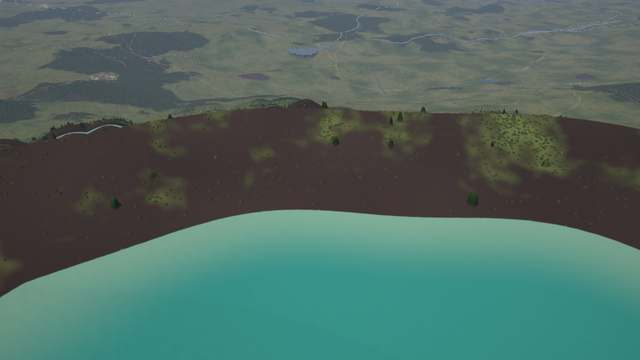
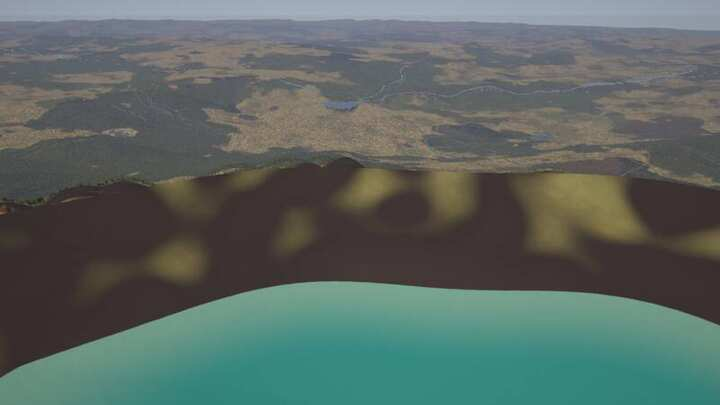
volcanic: no towns on cones (Stack::no_town), no tracks across kit lakes, crater lakes only inside the rim, calmer hydrothermal and cinder-apron looks, stills re-rendered with all kits

diff --git a/crates/terragen/src/kits/volcanic.rs b/crates/terragen/src/kits/volcanic.rs
@@ -600,7 +600,10 @@ fn volcano_look(s: &mut Stack, v: &Vol) {
     let p = s.ctx.p;
     let gsd = s.ctx.gsd;
     let Some(k) = cone(v, p, gsd, false) else { return };
-    // (no fields or towns in the crater)
+    // no fields in the crater, no towns on the cone (on the ash apron of an active one)
+    if k.u < 0.45 + 0.55 * v.act || k.rr < 1.6 * k.rce {
+        s.no_town = true;
+    }
     s.m.natural_ok *= smoothstep(1.0, 1.6, k.rr / k.rce);
     ash(s, v, &k);
     flows(s, v, &k);
@@ -691,19 +694,19 @@ fn hydrothermal(s: &mut Stack, v: &Vol, k: &Cone) {
     let strength = 0.35 + 0.65 * v.act;
     let n = nz(SEED_HYD ^ v.id, p, 38.0, gsd) + 0.5 * nz((SEED_HYD ^ v.id) + 1, p, 11.0, gsd);
     let wd = 0.06 + 0.25 * (1.0 - band(38.0, gsd));
-    let cov = smoothstep(-wd, wd, n - (1.1 - zone * strength));
+    let cov = smoothstep(-wd, wd, n - (1.3 - zone * strength));
     if cov <= 0.0 {
         return;
     }
     let pick = nz(SEED_HYD + 7, p, 90.0, gsd);
-    let col = mixc(mixc(srgb(204.0, 178.0, 62.0), srgb(176.0, 92.0, 48.0), smoothstep(-0.15, 0.2, pick)), srgb(214.0, 208.0, 194.0), smoothstep(0.1, 0.5, n));
+    let col = mixc(mixc(srgb(204.0, 178.0, 62.0), srgb(176.0, 92.0, 48.0), smoothstep(-0.15, 0.2, pick)), srgb(176.0, 158.0, 118.0), smoothstep(0.1, 0.5, n));
     s.composite(Layer { cov, albedo: col, cls: cls::BARE, clear: 1.0, ..Default::default() });
     s.m.natural_ok *= 1.0 - cov;
 }
 
 /// The crater or caldera lake: water at the instance's level where the ground is below it.
 fn crater_lake(s: &mut Stack, v: &Vol, k: &Cone) {
-    if v.lake < -1.0e5 || k.rr > 1.4 * v.rc.max(k.rce) {
+    if v.lake < -1.0e5 || k.rr > 1.02 * v.rc.max(k.rce) {
         return;
     }
     let l = s.l;
@@ -728,7 +731,7 @@ fn field_look(s: &mut Stack, it: &Instance) {
     // ash apron: a darkened ground, strongest at the field's heart
     if f.apron > 0.0 {
         let n = 0.5 + 0.5 * nz(SEED_ASH + 5, p, 120.0, gsd);
-        let cov = 0.62 * f.apron * (0.4 + 0.6 * n);
+        let cov = 0.5 * f.apron * smoothstep(0.2, 0.8, n);
         s.composite(Layer { cov, albedo: ash_col(n) * 0.9, cls: cls::VOLCANIC_ASH, clear: 0.8, ..Default::default() });
     }
     if f.lava > 0.0 {

diff --git a/crates/terragen/src/layers/built.rs b/crates/terragen/src/layers/built.rs
@@ -427,7 +427,11 @@ pub fn select_town(s: &mut crate::stack::Stack) {
     // towns avoid steep relief, judged from the relief type (smooth), not the slope of each
     // pixel (that cut houses in half along every terrace edge and gully wall)
     let town_slope = 0.12 + 0.75 * t.rock_expect;
-    let sel = if t.town.id != 0 && world.cfg.landuse.towns > 0.0 { s.sm.select_town(world, s.cache, p, gsd, town_slope, river_clear, s.pf, 2) } else { None };
+    let sel = if t.town.id != 0 && !s.no_town && world.cfg.landuse.towns > 0.0 {
+        s.sm.select_town(world, s.cache, p, gsd, town_slope, river_clear, s.pf, 2)
+    } else {
+        None
+    };
     let urban = sel.map_or(0.0, |x| x.1);
     let px = sel.and_then(|(town, _)| s.sm.town(&town, p, gsd, fw, town_slope, river_clear, world.cfg.satellite.shadows, s.pf));
     let cov = px.map_or(0.0, |x| x.2);

diff --git a/crates/terragen/src/stack.rs b/crates/terragen/src/stack.rs
@@ -213,6 +213,9 @@ pub struct Stack<'a> {
     /// a layer ended the stack: the rest is skipped (set by kits; water surfaces skip only the
     /// seasonal slot, while `is_water`)
     pub done: bool,
+    /// set by a kit before the towns are selected (slots 1–5): no town here (volcanic craters,
+    /// ash and lava)
+    pub no_town: bool,
     /// layers 6–7: evaluated before the canopy, composited after it
     deferring: bool,
     deferred: Deferred,
@@ -449,6 +452,7 @@ pub fn eval(sm: &SurfaceModel, world: &World, cache: &mut Caches, ctx: &Ctx, l: 
         emission: DVec3::ZERO,
         is_water: false,
         done: false,
+        no_town: false,
         deferring: false,
         deferred: Deferred::default(),
     };

diff --git a/crates/terragen/src/kits/agriculture.rs b/crates/terragen/src/kits/agriculture.rs
@@ -457,7 +457,8 @@ fn roads(s: &mut Stack) {
     let d = (q.x - ix * MILE).abs().min((q.y - iy * MILE).abs());
     let steep = smoothstep(-0.02, 0.02, 0.45 - s.l.slope);
     let cov = band_cov(d, 4.0, s.l.fw.max(0.5 * gsd)) * steep * (1.0 - s.m.snow);
-    if cov <= 0.0 {
+    // (no tracks across a kit's lakes: crater lakes, kettles)
+    if cov <= 0.0 || s.class == crate::landcover::LAKE {
         return;
     }
     // gravel farm tracks (roads proper are the transport kit's)

diff --git a/docs/kits/volcanic.md b/docs/kits/volcanic.md
@@ -32,7 +32,8 @@ old moss-green by age; no trees, no fields on them); hydrothermal sulphur, rust 
 at the crater; crater and caldera lakes at one flat water level of the instance; in fields the
 cinder cones (dark crater, pale rim), tephra rings and lakes of maars, an ash apron, short lava
 tongues. Snow caps come from the climate (lapse rate; the cold kit's snow model). No fields
-or towns in craters, on lava, ash or lakes (`Masks::natural_ok`).
+in craters, on lava, ash or lakes (`Masks::natural_ok`), and no town on a cone (`Stack::no_town`,
+set in slots 1-5: the town is not selected there; the active cone's ash apron counts).
 
 **Biomes** `volcanic_scrub` (warm and temperate volcanic country; black beaches) and
 `volcanic_barren` (cold and high), with old and fresh lava fans from the `lobes` kernel. Arid
@@ -68,24 +69,20 @@ default places (4 x 4 tiles):
 `InstList` zero-initialises 512 bytes per list: the first version of the layer cost 10-20 % at
 every place because of it).
 
-**Build note.** These numbers are of a build with only the cold and volcanic kits: with all
-kits on, pass B's pipeline takes ~370 s to compile on the farm's RTX 6000 Ada and the device is
-lost for any compile over ~400 s ("driver implementation is at fault"). Master with five kits is
-just under that; no kit can be added on top of it until the core compiles pass B faster.
+Cold compile (RTX 6000 Ada, all six kits): pass B 24 / 26 / 26 s (three pipelines), pass A1 17 s,
+point evaluation 19 s, drainage heights 15 s.
 
 ## Stills
 
-GPU-generated (`terrain survey`, default world, 10:30 local on the equinox, the cold and
-volcanic kits only, for the reason above). Rendered once more after the first fixes. Two fixes
-(short fat lava tongues on shields; no towns in craters, on ash or lava) and a speed-up (same
-look) came after the last render and were not re-rendered.
+GPU-generated (`terrain survey`, default world, 10:30 local on the equinox, all six kits). Oblique
+views stand off from the cone along the view direction.
 
-**Crater lake** (11.850, -106.320): oblique 300 m, nadir 1.5 km, oblique 1.5 km from 7 km.
+**Crater lake** (11.850, -106.320): oblique 300 m, nadir 1.5 km, oblique 1.5 km from 3 km.
 ![crater lake](images/volcanic_crater_lake_300m.jpg)
 ![crater lake, nadir](images/volcanic_crater_lake_1500m_nadir.jpg)
 ![dormant cone](images/volcanic_cone_1500m.jpg)
 
-**Caldera lake** (-44.677, 9.339, oblique 10 km): fields on the farmland around the ring.
+**Caldera lake** (-44.677, 9.339, oblique 10 km from 13 km): fields on the farmland around the ring.
 ![caldera](images/volcanic_caldera_10km.jpg)
 
 **Snow-capped cone** (56.885, -101.647, oblique 1.5 km): gullies show as ridges in the snow.

diff --git a/docs/design/kit-guide.md b/docs/design/kit-guide.md
@@ -145,7 +145,8 @@ with `s.composite(layer)` / `composite(s, ly)`. Class ids are the v2 ids of
 | `s.col`, `s.height`, `s.class`, `s.lit`, `s.emission` | same | the composite so far |
 
 A kit may lower `s.m.natural_ok` (no fields / farmsteads there) or `s.m.veg` (no trees), and
-should do it through `Layer::clear` where it draws. Publish nothing else into `Masks`; if a kit
+should do it through `Layer::clear` where it draws. A kit that must keep towns off its ground
+(a volcano's cone) sets `s.no_town = true` before slot 6 (the town is then not selected). Publish nothing else into `Masks`; if a kit
 needs a new shared value, ask for a field in the core.
 
 ---
